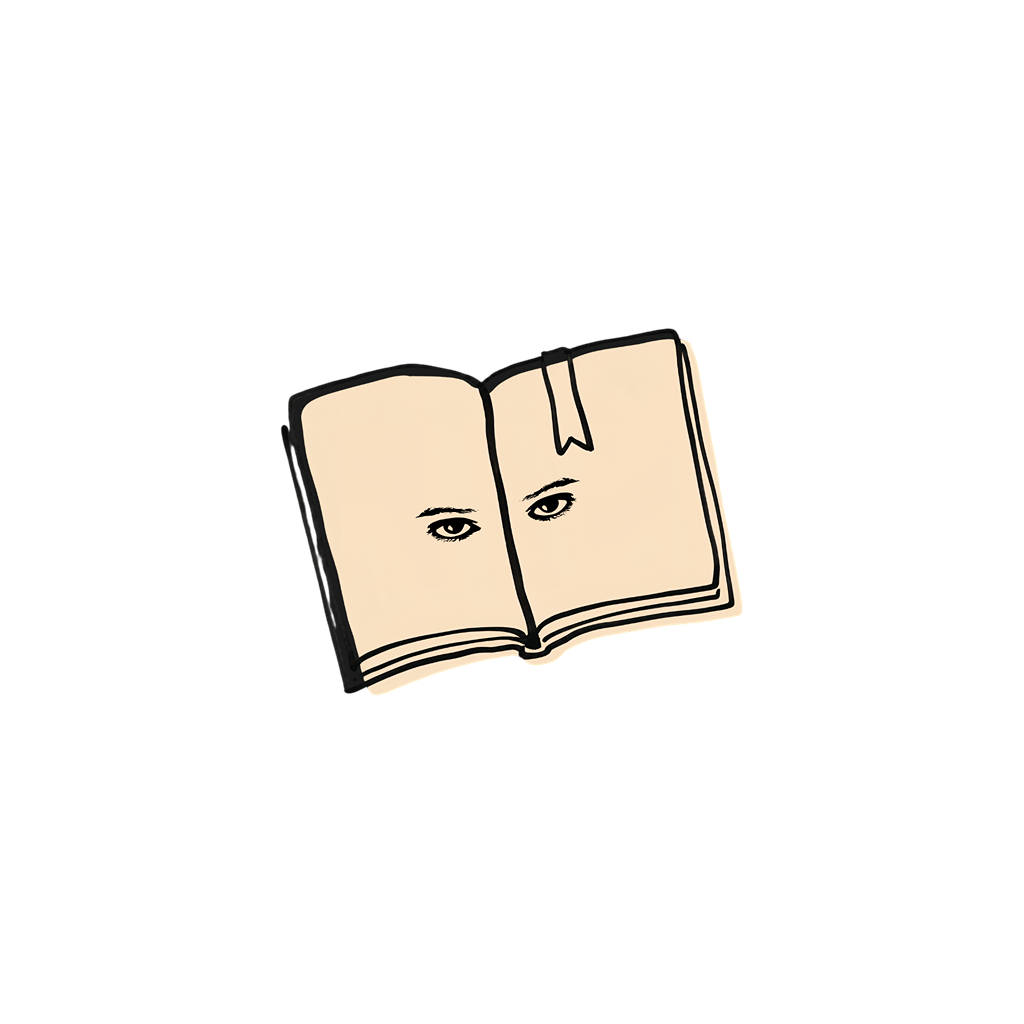
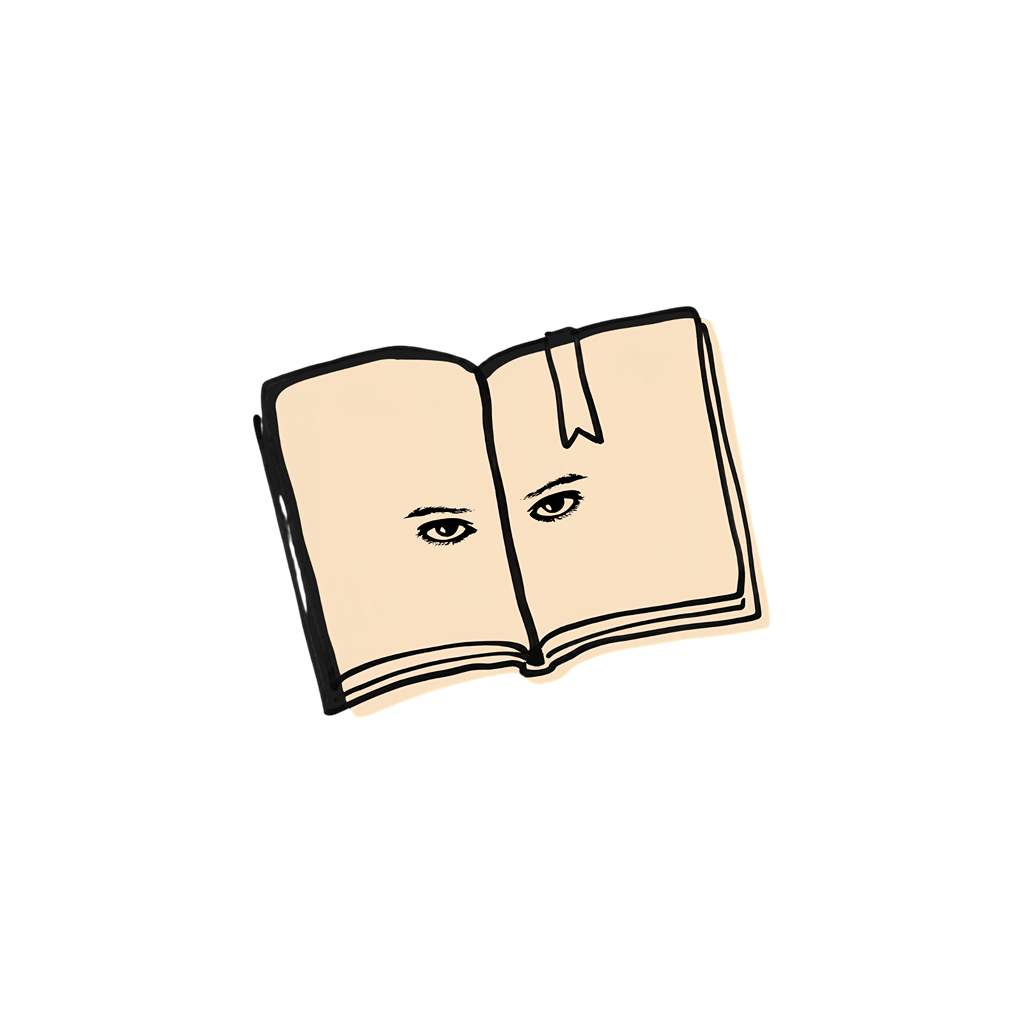
image preview feature

Changed region(s): [[0.25, 0.2812, 0.75, 0.7188]]

diff --git a/src/app/(app)/subject/[id].tsx b/src/app/(app)/subject/[id].tsx
@@ -1,6 +1,8 @@
 import React, { useEffect, useState, useCallback, useRef } from 'react';
-import { ActivityIndicator, Pressable, Text, View, FlatList, Modal, TextInput, Alert, StyleSheet, Image, RefreshControl } from 'react-native';
+import { ActivityIndicator, Pressable, Text, View, FlatList, Modal, TextInput, Alert, StyleSheet, Image, RefreshControl, ScrollView } from 'react-native';
 import { Redirect, router, useLocalSearchParams, useFocusEffect } from 'expo-router';
+import { Gesture, GestureDetector } from 'react-native-gesture-handler';
+import Animated, { useAnimatedStyle, useSharedValue, withSpring } from 'react-native-reanimated';
 import { useAuthStore } from '@/store/authStore';
 import apiClient from '@/services/api';
 import * as ImagePicker from 'expo-image-picker';
@@ -21,6 +23,82 @@ type Note = {
   media?: { url: string; type: string }[];
 };
 
+function ZoomableImage({ uri }: { uri: string }) {
+  const scale = useSharedValue(1);
+  const savedScale = useSharedValue(1);
+  const translateX = useSharedValue(0);
+  const translateY = useSharedValue(0);
+  const savedTranslateX = useSharedValue(0);
+  const savedTranslateY = useSharedValue(0);
+
+  const pinchGesture = Gesture.Pinch()
+    .onUpdate((e) => {
+      scale.value = Math.max(1, Math.min(savedScale.value * e.scale, 5));
+    })
+    .onEnd(() => {
+      savedScale.value = scale.value;
+      if (scale.value <= 1) {
+        scale.value = withSpring(1);
+        translateX.value = withSpring(0);
+        translateY.value = withSpring(0);
+        savedScale.value = 1;
+        savedTranslateX.value = 0;
+        savedTranslateY.value = 0;
+      }
+    });
+
+  const panGesture = Gesture.Pan()
+    .onUpdate((e) => {
+      if (scale.value > 1) {
+        translateX.value = savedTranslateX.value + e.translationX;
+        translateY.value = savedTranslateY.value + e.translationY;
+      }
+    })
+    .onEnd(() => {
+      savedTranslateX.value = translateX.value;
+      savedTranslateY.value = translateY.value;
+    });
+
+  const doubleTapGesture = Gesture.Tap()
+    .numberOfTaps(2)
+    .onEnd(() => {
+      if (scale.value > 1) {
+        scale.value = withSpring(1);
+        translateX.value = withSpring(0);
+        translateY.value = withSpring(0);
+        savedScale.value = 1;
+        savedTranslateX.value = 0;
+        savedTranslateY.value = 0;
+      } else {
+        scale.value = withSpring(2.5);
+        savedScale.value = 2.5;
+      }
+    });
+
+  const composedGesture = Gesture.Race(
+    doubleTapGesture,
+    Gesture.Simultaneous(pinchGesture, panGesture)
+  );
+
+  const animatedStyle = useAnimatedStyle(() => ({
+    transform: [
+      { translateX: translateX.value },
+      { translateY: translateY.value },
+      { scale: scale.value },
+    ],
+  }));
+
+  return (
+    <GestureDetector gesture={composedGesture}>
+      <Animated.Image
+        source={{ uri }}
+        style={[{ width: '100%', height: '100%' }, animatedStyle]}
+        resizeMode="contain"
+      />
+    </GestureDetector>
+  );
+}
+
 export default function SubjectScreen() {
   const { id } = useLocalSearchParams<{ id: string }>();
   const { user, token, isHydrated, initializeAuth } = useAuthStore();
@@ -28,6 +106,7 @@ export default function SubjectScreen() {
   const [notes, setNotes] = useState<Note[]>([]);
   const [isLoading, setIsLoading] = useState(false);
   const [isRefreshing, setIsRefreshing] = useState(false);
+  const [previewUri, setPreviewUri] = useState<string | null>(null);
 
   const [isModalVisible, setModalVisible] = useState(false);
   const [title, setTitle] = useState('');
@@ -146,7 +225,7 @@ export default function SubjectScreen() {
       setImageUri(result.assets[0].uri);
     }
   };
-  
+
   const handlePickImage = () => {
     Alert.alert(
       'Add Photo',
@@ -228,11 +307,13 @@ export default function SubjectScreen() {
       {item.content ? <Text style={styles.noteContent}>{item.content}</Text> : null}
 
       {item.media && item.media.length > 0 && item.media[0].url && (
-        <Image
-          source={{ uri: item.media[0].url }}
-          style={styles.noteImage}
-          resizeMode="cover"
-        />
+        <Pressable onPress={() => setPreviewUri(item.media![0].url)}>
+          <Image
+            source={{ uri: item.media[0].url }}
+            style={styles.noteImage}
+            resizeMode="cover"
+          />
+        </Pressable>
       )}
 
       <Text style={styles.noteDate}>{new Date(item.createdAt).toLocaleString()}</Text>
@@ -333,6 +414,19 @@ export default function SubjectScreen() {
           </View>
         </View>
       </Modal>
+      <Modal visible={!!previewUri} animationType="fade" transparent={true}>
+        <View style={styles.previewOverlay}>
+          <Pressable style={styles.previewCloseBtn} onPress={() => setPreviewUri(null)}>
+            <Text style={styles.previewCloseText}>✕</Text>
+          </Pressable>
+
+          {previewUri && (
+            <View style={styles.previewImageWrapper}>
+              <ZoomableImage key={previewUri} uri={previewUri} />
+            </View>
+          )}
+        </View>
+      </Modal>
     </View>
   );
 }
@@ -424,5 +518,35 @@ const styles = StyleSheet.create({
   cancelBtn: { backgroundColor: '#121212', borderWidth: 1, borderColor: '#334155' },
   saveBtn: { backgroundColor: '#e3cb00' },
   btnText: { color: 'black', fontWeight: '600', fontSize: 16 },
-  btnTextCancel: { color: '#fff', fontWeight: '600', fontSize: 16 }
+  btnTextCancel: { color: '#fff', fontWeight: '600', fontSize: 16 },
+  previewOverlay: {
+    flex: 1,
+    backgroundColor: 'rgba(0,0,0,0.95)',
+    justifyContent: 'center',
+    alignItems: 'center',
+  },
+  previewCloseBtn: {
+    position: 'absolute',
+    top: 60,
+    right: 24,
+    zIndex: 10,
+    width: 40,
+    height: 40,
+    borderRadius: 20,
+    backgroundColor: 'rgba(255,255,255,0.15)',
+    justifyContent: 'center',
+    alignItems: 'center',
+  },
+  previewCloseText: { color: '#fff', fontSize: 20, fontWeight: '600' },
+  previewScroll: { width: '100%', height: '100%' },
+  previewScrollContent: {
+    flexGrow: 1,
+    justifyContent: 'center',
+    alignItems: 'center',
+  },
+  previewImageFull: {
+    width: '100%',
+    height: '100%',
+  },
+  previewImageWrapper: { width: '100%', height: '100%' },
 });

diff --git a/src/constants/api.ts b/src/constants/api.ts
@@ -1,3 +1,3 @@
 // ipconfig getifaddr en0
 
-export const API_BASE_URL = 'http://192.168.1.4:3001'; // backend URL!
+export const API_BASE_URL = 'http://192.168.1.3:3001'; // backend URL!
